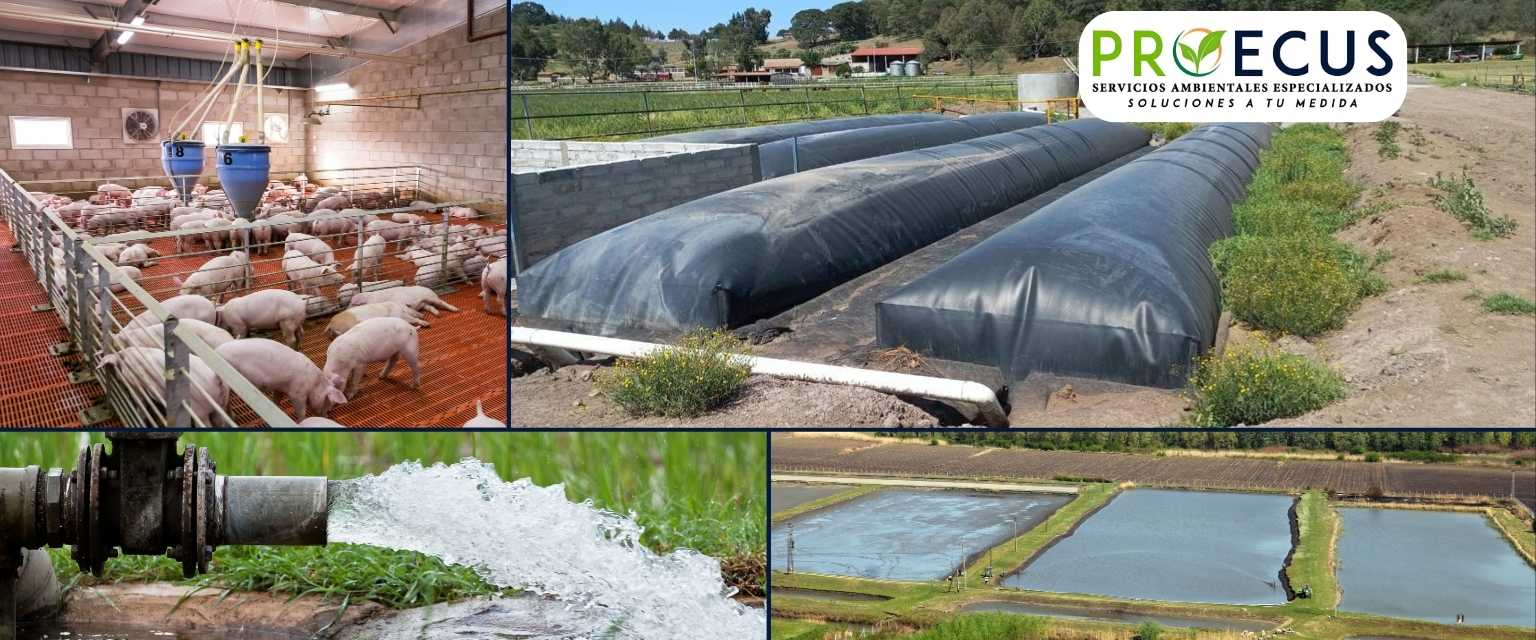
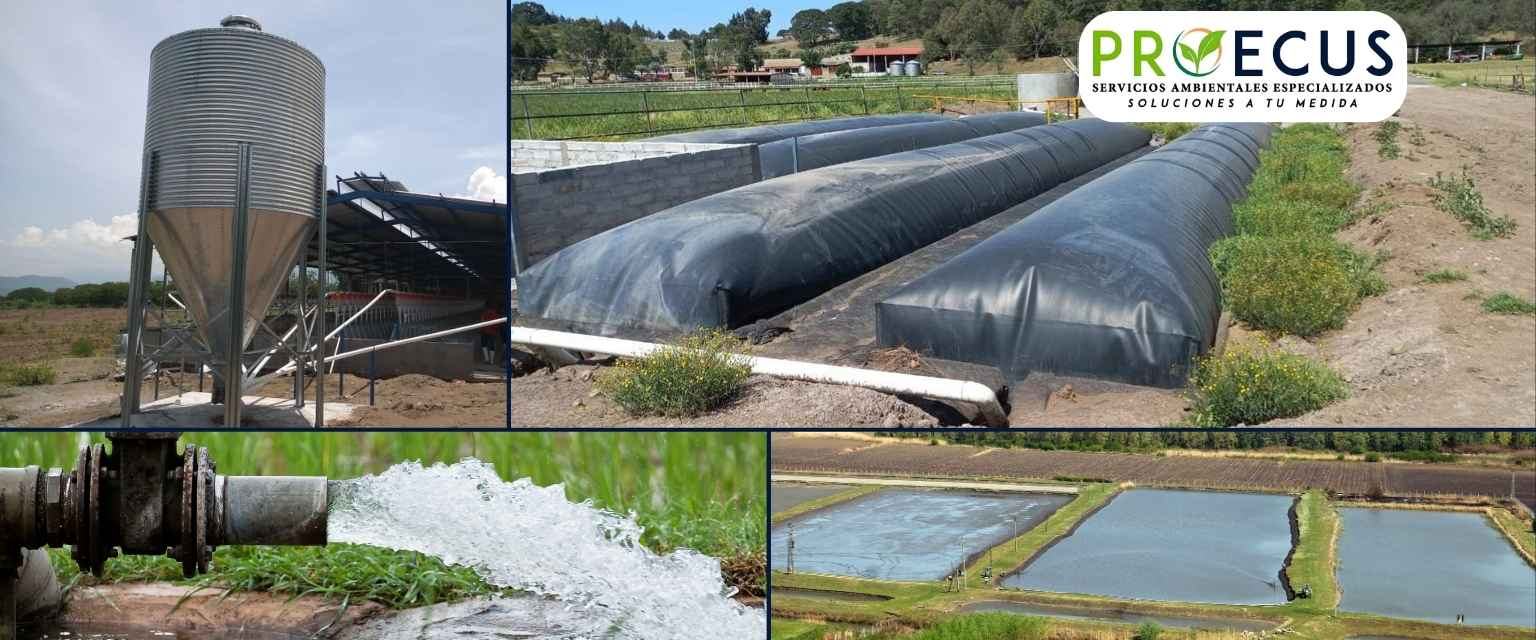
commit a producción, se edito el archivo README, se agrego la categoria Silos, y se cambio la imagen del hero

Changed region(s): [[0.0, 0.0, 0.3438, 0.6875]]

diff --git a/README.md b/README.md
@@ -1,47 +1,71 @@
-# Astro Starter Kit: Minimal
+# PROECUS Website
 
-```sh
-npm create astro@latest -- --template minimal
-```
+![Proecus Logo](./public/img/logoFull.png)
 
-[![Open in StackBlitz](https://developer.stackblitz.com/img/open_in_stackblitz.svg)](https://stackblitz.com/github/withastro/astro/tree/latest/examples/minimal)
-[![Open with CodeSandbox](https://assets.codesandbox.io/github/button-edit-lime.svg)](https://codesandbox.io/p/sandbox/github/withastro/astro/tree/latest/examples/minimal)
-[![Open in GitHub Codespaces](https://github.com/codespaces/badge.svg)](https://codespaces.new/withastro/astro?devcontainer_path=.devcontainer/minimal/devcontainer.json)
+---
 
-> 🧑🚀 **Seasoned astronaut?** Delete this file. Have fun!
+## Descripción
 
-## 🚀 Project Structure
+Este repositorio contiene el código fuente y la documentación para el sitio web de Proecus, una empresa líder en el sector agropecuario. El sitio web está desarrollado con Astro, JS, HTML, Tailwind, Preline y la API al chat live de crisp.chat
 
-Inside of your Astro project, you'll see the following folders and files:
+El sitio web de Proecus se puede acceder a través del siguiente enlace: [www.proecus.org](https://www.proecus.org)
 
-```text
-/
-├── public/
-├── src/
-│   └── pages/
-│       └── index.astro
-└── package.json
-```
+---
 
-Astro looks for `.astro` or `.md` files in the `src/pages/` directory. Each page is exposed as a route based on its file name.
+## Características
 
-There's nothing special about `src/components/`, but that's where we like to put any Astro/React/Vue/Svelte/Preact components.
+- Diseño first mobile 
+- Diseño responsivo 
+- Desplegado en Vercel
 
-Any static assets, like images, can be placed in the `public/` directory.
+---
 
-## 🧞 Commands
+## Requisitos del Sistema
 
-All commands are run from the root of the project, from a terminal:
+- Navegador Web
 
-| Command                   | Action                                           |
+---
+
+## Instalación
+
+Todos los comandos se ejecutan desde la raíz del proyecto, desde una terminal:
+
+| Comando                   | Acción                                           |
 | :------------------------ | :----------------------------------------------- |
-| `npm install`             | Installs dependencies                            |
-| `npm run dev`             | Starts local dev server at `localhost:4321`      |
-| `npm run build`           | Build your production site to `./dist/`          |
-| `npm run preview`         | Preview your build locally, before deploying     |
-| `npm run astro ...`       | Run CLI commands like `astro add`, `astro check` |
-| `npm run astro -- --help` | Get help using the Astro CLI                     |
+| `npm install`             | Instala dependencias del proyecto                |
+| `npm run dev`             | Inicia el servidor local en: `localhost:4321`    |
+| `npm run build`           | Construye el sitio en producción en: `./dist/`   |
 
-## 👀 Want to learn more?
+---
 
-Feel free to check [our documentation](https://docs.astro.build) or jump into our [Discord server](https://astro.build/chat).
+## Contribución
+
+Agradecemos las contribuciones al proyecto. Si desea contribuir, siga estos pasos:
+
+1. Forkee el repositorio.
+2. Cree una nueva rama (`git checkout -b feature/nueva-caracteristica`).
+3. Haga commit de sus cambios (`git commit -am 'Agrega nueva característica'`).
+4. Haga push a la rama (`git push origin feature/nueva-caracteristica`).
+5. Abra un pull request.
+
+---
+
+## Autor
+
+- **Roberto Vazquez (RobertCoder)** - [Perfil de GitHub](https://github.com/xBlackEaglex)
+
+- **Portfolio y contacto** [Portfolio Web](https://www.robertcoder.com)
+
+---
+
+## Licencia
+
+Este proyecto está bajo la licencia MIT. Consulte el archivo [LICENSE](LICENSE) para obtener más detalles.
+
+---
+
+## Contacto
+
+Para más información sobre el proyecto, contáctenos en:
+
+- Sitio web: [www.iddotec.com](https://www.iddotec.com)
